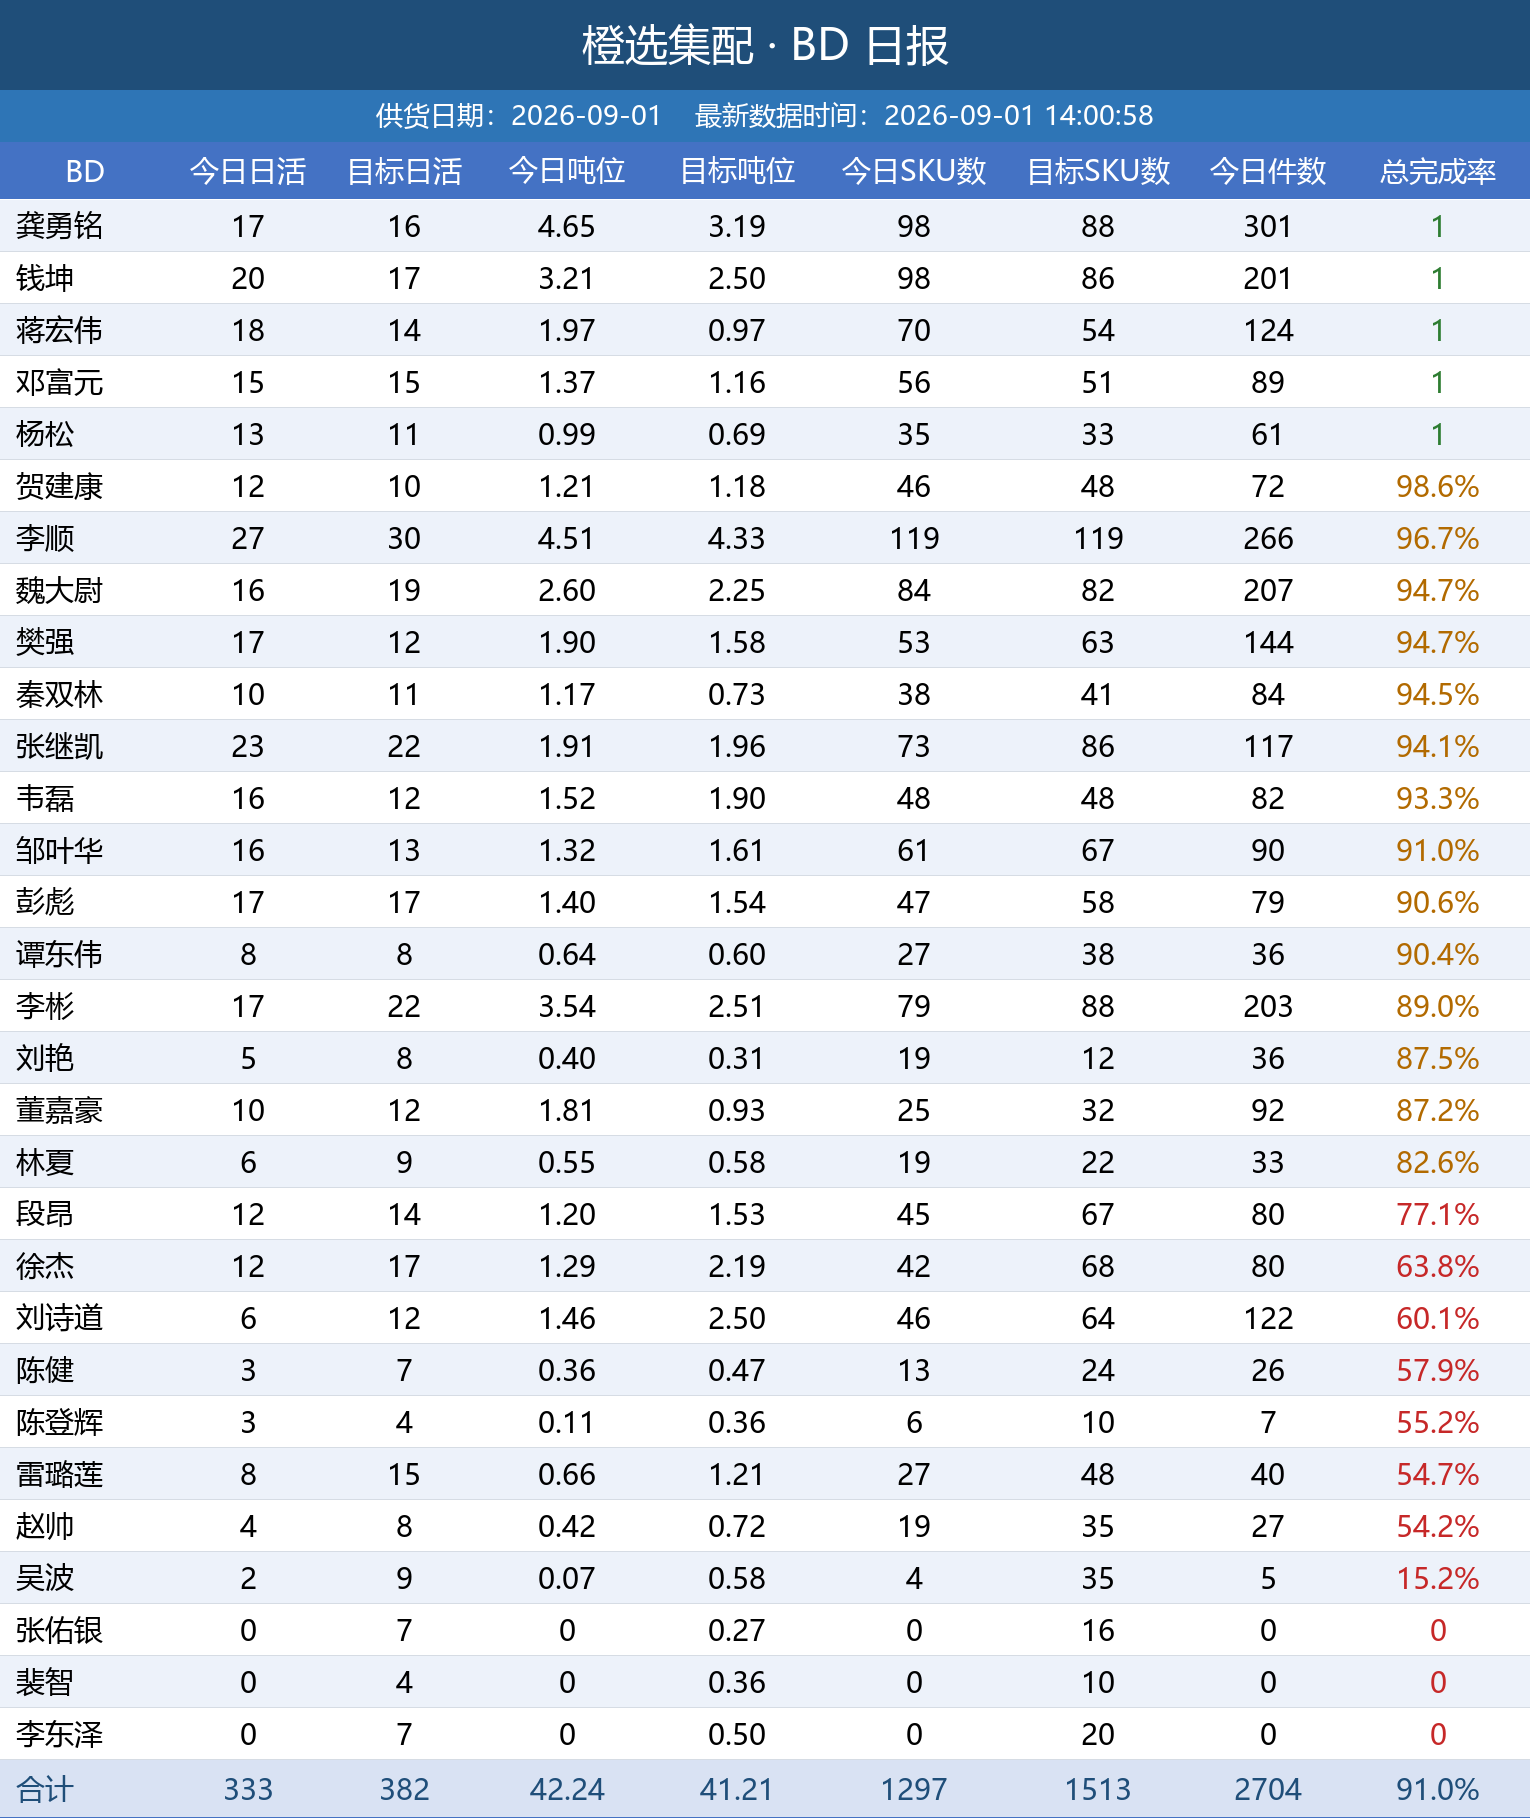
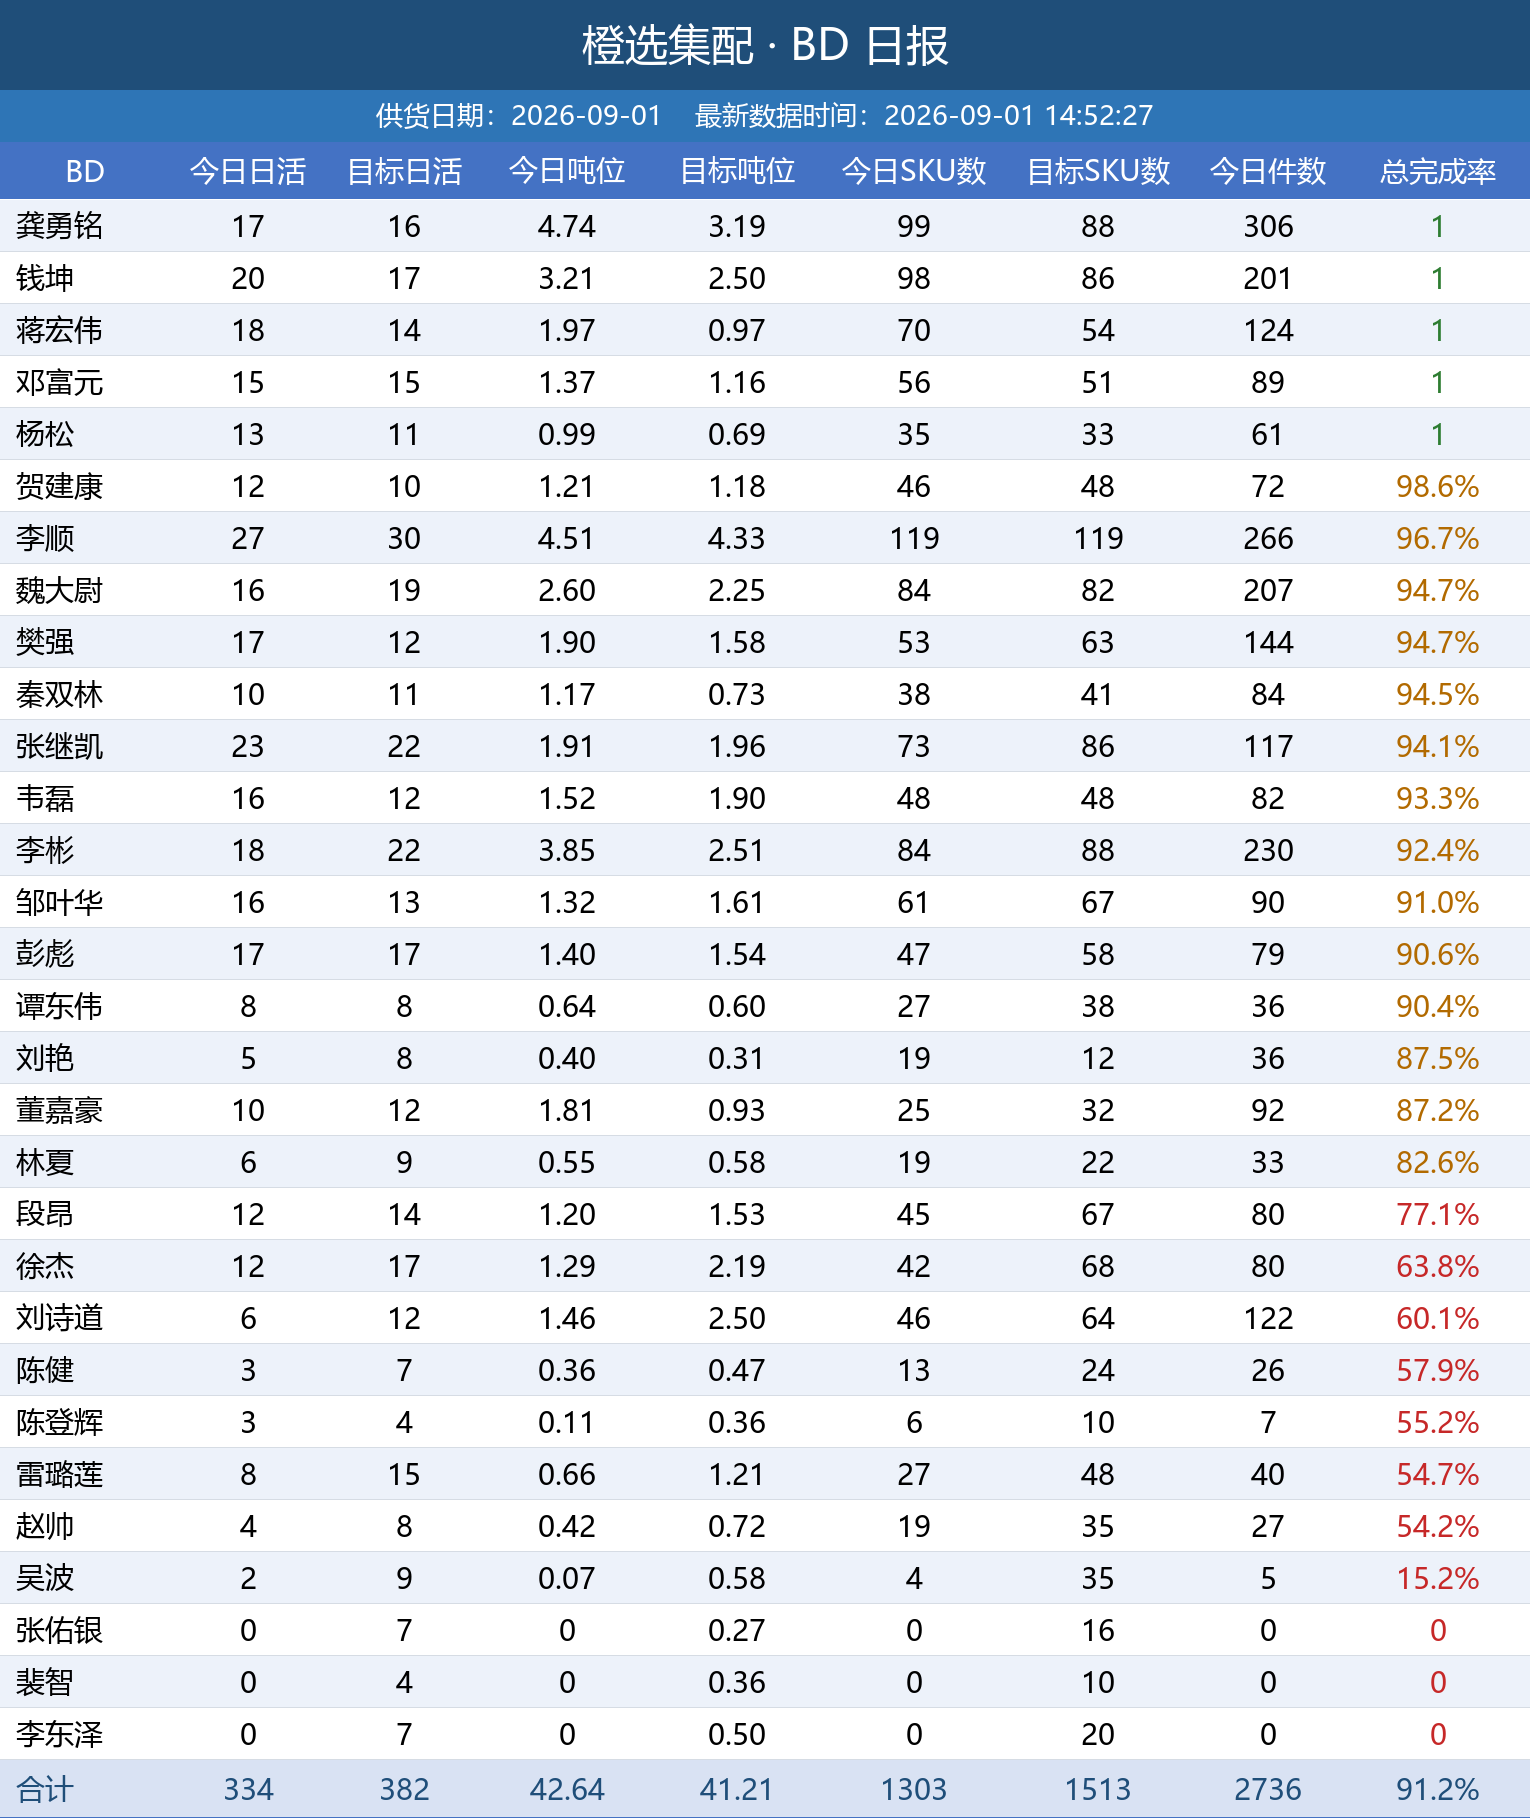
自动更新日报图片

diff --git a/index.html b/index.html
@@ -11,7 +11,7 @@ img { max-width: 100%; border: 1px solid #e5e5e5; margin-bottom: 24px; display: 
 </style>
 </head>
 <body>
-<h1>橙选集配日报图片（20260901_140103）</h1>
+<h1>橙选集配日报图片（20260901_145232）</h1>
 <img src="bd_latest.png" alt="BD 日报">
 <img src="wh_latest.png" alt="城市仓日报">
 <img src="zs_latest.png" alt="招商日报">
